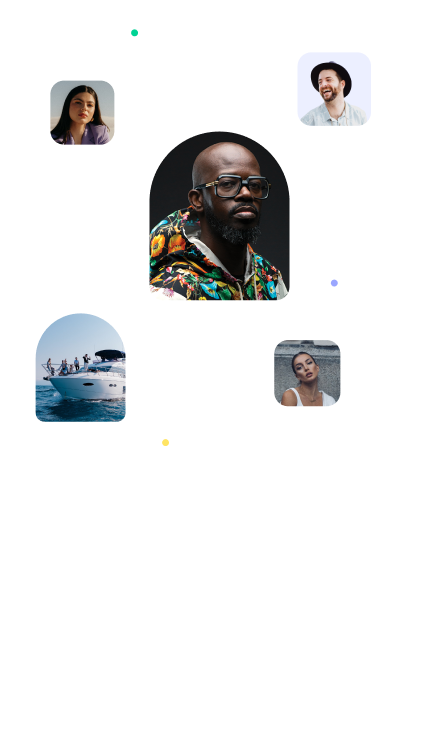
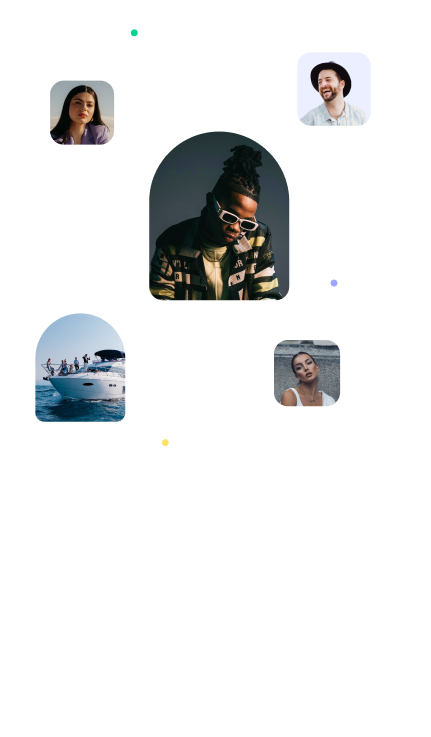
[IO-228] correct these screens (pixel perfect)

diff --git a/src/screens/Auth/Privacy.tsx b/src/screens/Auth/Privacy.tsx
@@ -1,5 +1,5 @@
 import {isIos, screenHeight} from 'constants/common';
-import {FC} from 'react';
+import {FC, useContext} from 'react';
 import {FlatList, Keyboard, KeyboardAvoidingView, SafeAreaView, Text, TouchableWithoutFeedback, View} from 'react-native';
 import LogoPrimary2 from 'assets/images/auth/logo-primary-2.svg';
 import CheckIcon from 'assets/images/icons/check.svg';
@@ -9,13 +9,16 @@ import {Satoshi400, Satoshi500, Satoshi700} from 'constants/fonts';
 import {RFValue} from 'react-native-responsive-fontsize';
 import Button from 'components/Button/Button';
 import {useAppNavigation} from 'hooks/useAppNavigation';
-import {codeVerifiedPath, pendingScreenPath, photoVerifiedPath, verifyFirstStepPath} from 'constants/pathLocations';
+import {verifyFirstStepPath} from 'constants/pathLocations';
 import {TouchableOpacity} from 'react-native';
+import { AuthContext } from 'contexts/AuthContext';
 
 const Privacy: FC = (): JSX.Element => {
   const navigation = useAppNavigation();
-
-  const privaciesList = [
+  const {onBoarding} = useContext(AuthContext);
+  const objWithAccountType = onBoarding.find(obj => obj.hasOwnProperty("accountType"));
+  
+  const privaciesListHost = [
     {
       id: 0,
       title: 'Be Respectful',
@@ -35,6 +38,29 @@ const Privacy: FC = (): JSX.Element => {
       id: 3,
       title: 'Respect Privacy',
       subtitle: 'Do not share personal information or media without consent.'
+    },
+  ];
+
+  const privaciesListGuest = [
+    {
+      id: 0,
+      title: 'Be Polite',
+      subtitle: 'Treat the host and other guests with respect and courtesy.'
+    },
+    {
+      id: 1,
+      title: 'Follow Guidelines',
+      subtitle: "Adhere to the host's event rules and maintain appropriate behavior.",
+    },
+    {
+      id: 2,
+      title: 'Be Honest',
+      subtitle: 'Represent yourself truthfully when joining events.',
+    },
+    {
+      id: 3,
+      title: 'Respect Privacy',
+      subtitle: 'Do not share personal details or event content without permission.'
     },
   ];
 
@@ -92,12 +118,12 @@ const Privacy: FC = (): JSX.Element => {
                     fontFamily: Satoshi400,
                     fontSize: RFValue(18, 812),
                   }}>
-                  Please follow these Host House Rules
+                  Please follow these {objWithAccountType?.accountType === 'host'? 'Host': 'Guest'} House Rules
                 </Text>
               </View>
               <View style={{width: '100%'}}>
                 <FlatList
-                  data={privaciesList}
+                  data={objWithAccountType?.accountType === 'host'? privaciesListHost: privaciesListGuest}
                   keyExtractor={({id}) => id.toString()}
                   ItemSeparatorComponent={() => <View style={{height: 8}} />}
                   renderItem={({item: {title, subtitle}}) => (
@@ -115,7 +141,7 @@ const Privacy: FC = (): JSX.Element => {
               </View>
             </View>
             <View style={{marginBottom: 4}}>
-              <Button onPress={() => navigation.navigate(verifyFirstStepPath as never)} title="I agree, continue" />
+              <Button onPress={() => navigation.navigate(verifyFirstStepPath as never)} title="I Agree, Continue" />
             </View>
           </View>
         </SafeAreaView>

diff --git a/src/components/Button/Button.tsx b/src/components/Button/Button.tsx
@@ -7,6 +7,7 @@ import {Satoshi500} from 'constants/fonts';
 import {screenHeight} from 'constants/common';
 import {blackColor, grayColor, whiteColor} from 'constants/colors';
 import {TextStyle, ViewStyle} from 'react-native';
+import { RFValue } from 'react-native-responsive-fontsize';
 
 const Button: FC<ButtonProps> = ({
   title,
@@ -22,16 +23,15 @@ const Button: FC<ButtonProps> = ({
     ['default']: {
       container: buttonContatinerStyle,
       defaultRaw: {
-        borderRadius: 8,
+        borderRadius: 18,
         backgroundColor: whiteColor,
-        maxHeight: 56,
-        height: screenHeight / 15,
+        height: 64,
       } as ViewStyle,
       defaultRawText: {
         color: blackColor,
         fontFamily: Satoshi500,
         textAlign: 'center',
-        fontSize: 18,
+        fontSize: RFValue(16, 812),
         ...buttonTitleStyle,
       } as TextStyle,
       defaultDisabledRaw: {
@@ -48,17 +48,16 @@ const Button: FC<ButtonProps> = ({
     ['transparent']: {
       container: buttonContatinerStyle,
       defaultRaw: {
-        borderRadius: 8,
+        borderRadius: 18,
         backgroundColor: 'transparent',
         borderWidth: 0,
-        maxHeight: 56,
-        height: screenHeight / 15,
+        height: 64,
       },
       defaultRawText: {
         color: whiteColor,
         fontFamily: Satoshi500,
         textAlign: 'center',
-        fontSize: 18,
+        fontSize: RFValue(16, 812),
         ...buttonTitleStyle,
       },
       defaultHighlight: {

diff --git a/src/screens/Auth/Onboard.tsx b/src/screens/Auth/Onboard.tsx
@@ -1,12 +1,13 @@
 import React, {FC} from 'react';
 import {Dimensions, SafeAreaView, Text, TouchableOpacity, View} from 'react-native';
 import LogoPrimary from 'assets/images/auth/logo-primary.svg';
-import {black1Color, blackColor, lightGray19Color, lightGreen2Color, orange2Color, whiteColor, yellowColor} from 'constants/colors';
+import {black1Color, black3Color, blackColor, lightGray19Color, lightGreen2Color, orange2Color, whiteColor, yellowColor} from 'constants/colors';
 import {Outfit500, Satoshi500, Satoshi700} from 'constants/fonts';
 import {RFValue} from 'react-native-responsive-fontsize';
 import {useAppNavigation} from 'hooks/useAppNavigation';
 import {startCreateAccountPath} from 'constants/pathLocations';
 import AsyncStorage from '@react-native-async-storage/async-storage';
+import LinearGradient from 'react-native-linear-gradient';
 
 const Onboard: FC = (): JSX.Element => {
   const navigation = useAppNavigation();
@@ -24,7 +25,7 @@ const Onboard: FC = (): JSX.Element => {
 
   // @ts-ignore
   return (
-    <View style={{flex: 1, backgroundColor: blackColor}}>
+    <LinearGradient colors={[black3Color, blackColor]} style={{flex: 1}}>
       <SafeAreaView style={{flex: 1}}>
         <View
           style={{
@@ -98,7 +99,7 @@ const Onboard: FC = (): JSX.Element => {
           </TouchableOpacity>
         </View>
       </SafeAreaView>
-    </View>
+    </LinearGradient>
   );
 };
 

diff --git a/src/contexts/AuthContext.tsx b/src/contexts/AuthContext.tsx
@@ -23,7 +23,7 @@ const AuthContext = createContext<AuthContextData>(initialAuthContext);
 const AuthProvider: React.FC<AuthProviderProps> = ({children}) => {
   const [user, setUser] = useState<any>(initialAuthContext.user);
   const [onBoarding, setOnBoarding] = useState<any>(initialAuthContext.onBoarding);
-  
+    
   const value = {
     user,
     setUser,
